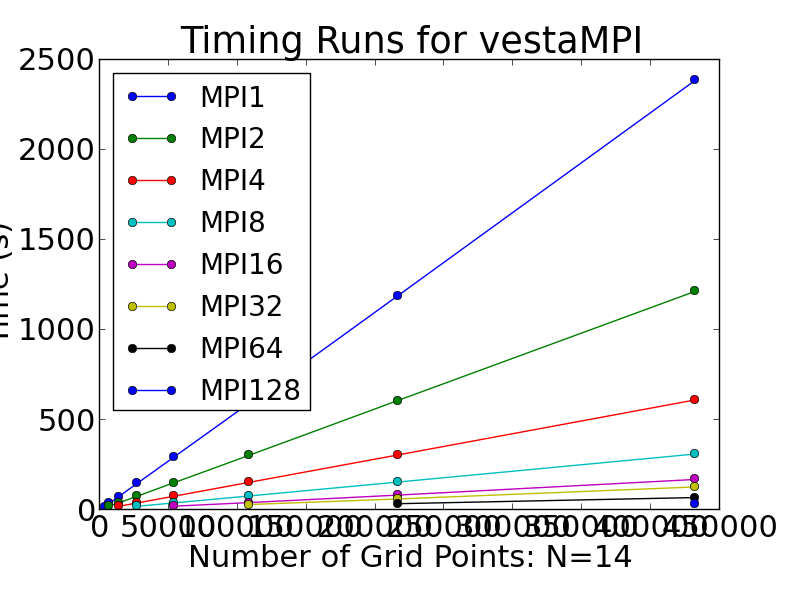
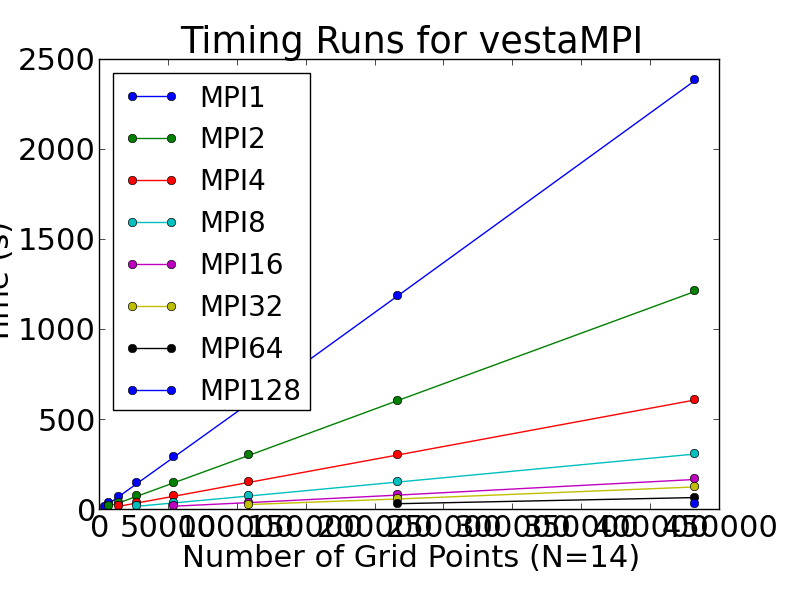
clean
git-svn-id: https://svn.mcs.anl.gov/repos/NEKCEM/trunk@1935 df63514b-fc50-0410-8a93-94e60f5a2dad

Changed region(s): [[0.2188, 0.9, 0.8125, 0.96]]

diff --git a/examples/mpi_scale/data/timingPlotN14.py b/examples/mpi_scale/data/timingPlotN14.py
@@ -36,7 +36,7 @@ for fn in os.listdir('.'):
             plt.legend(loc='upper left',prop={'size':20})
             plt.title('Timing Runs for '+comp+proc)
             plt.ylabel('Time (s)')
-            plt.xlabel('Number of Grid Points: N=14')
+            plt.xlabel('Number of Grid Points (N=14)')
             save='plots/'+fn+'lin'
 
             if saveIn == 0:
@@ -55,7 +55,7 @@ for fn in os.listdir('.'):
             plt.ylabel('Time (s)')
 
             plt.xscale('log')            
-            plt.xlabel('Number of Grid Points: N=14')
+            plt.xlabel('Number of Grid Points (N=14)')
 
             save='plots/'+fn+'log'
             if saveIn == 0:
